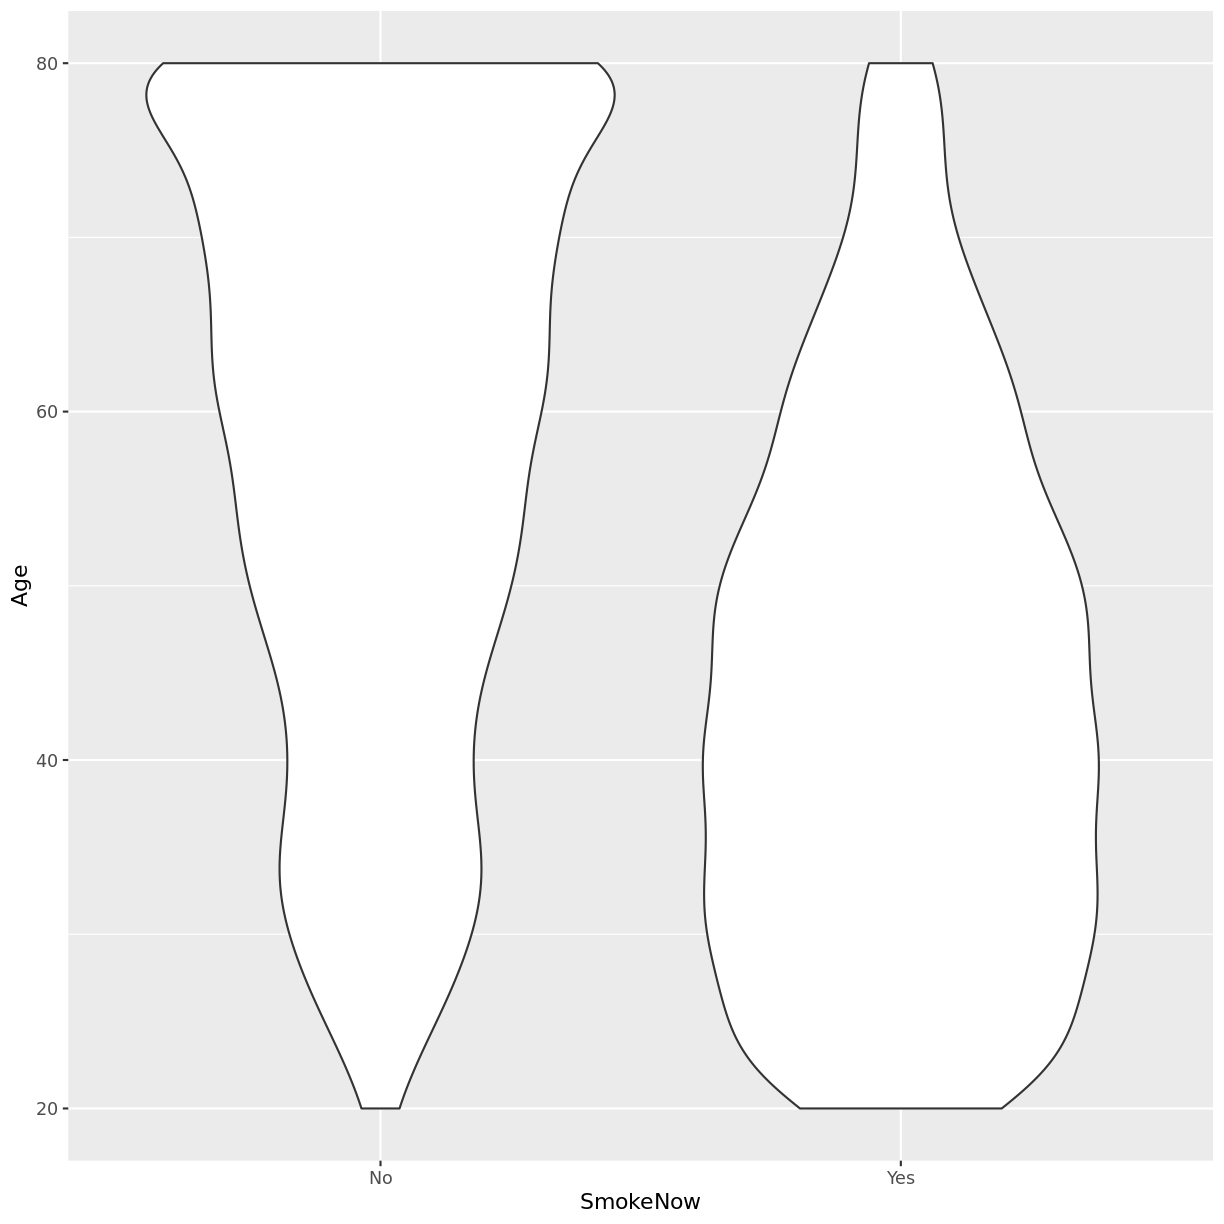
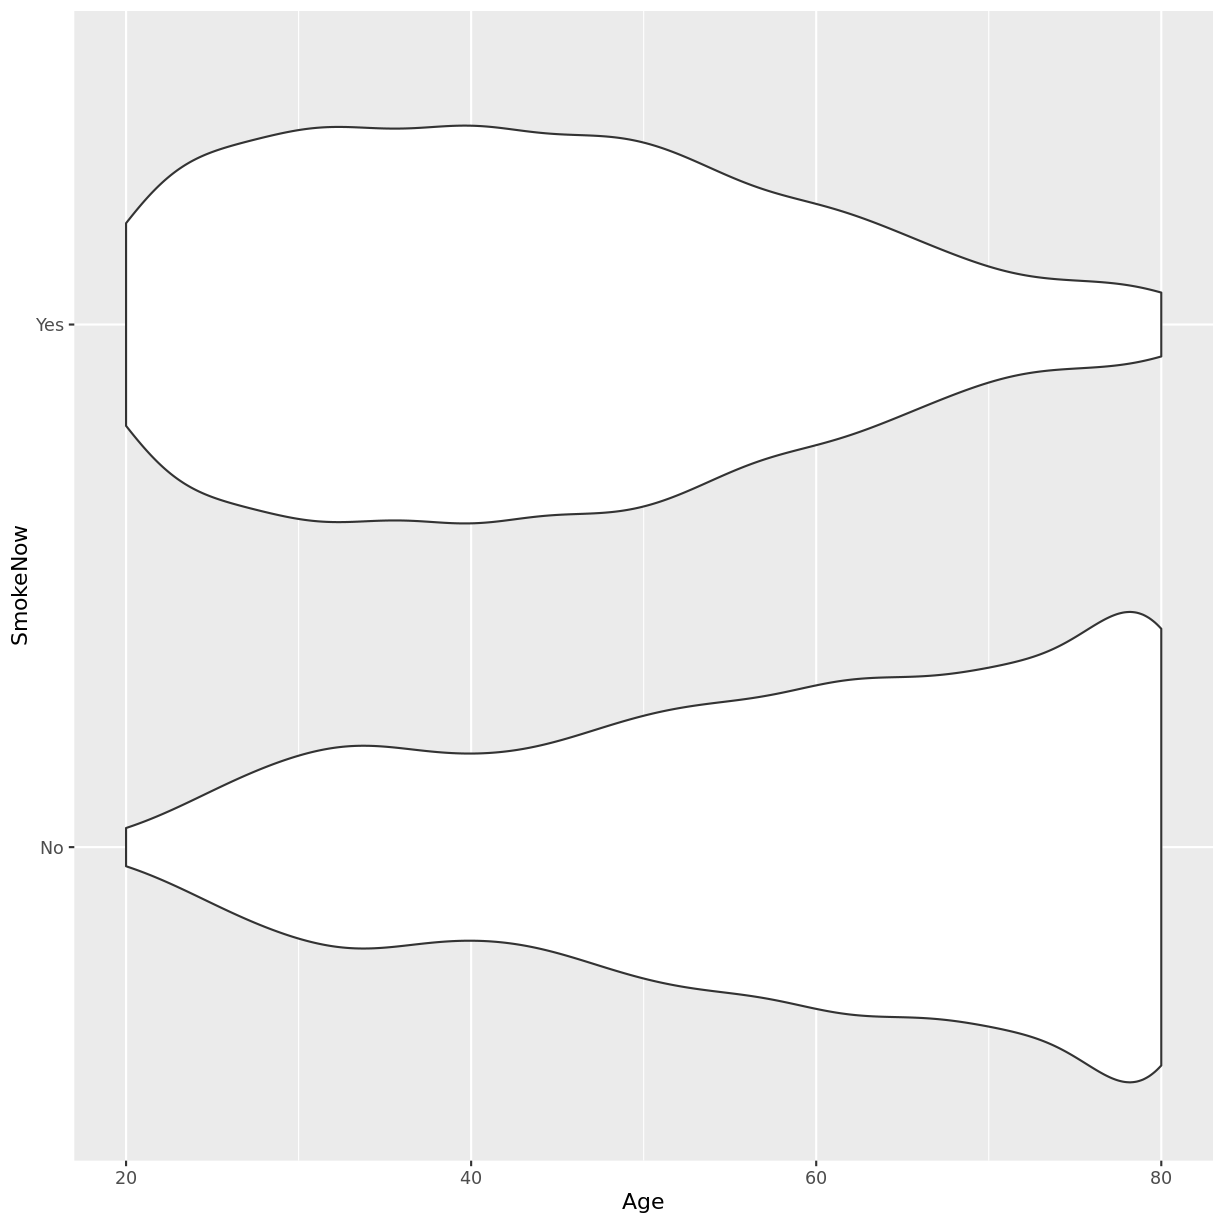
init main text

diff --git a/_episodes/03-fittingLogistic.md b/_episodes/03-fittingLogistic.md
@@ -17,11 +17,17 @@ execises: 10
 
 
 
+In this episode we will learn to fit a logistic regression model when we have one binary response variable and one continuous explanatory variable. Before we fit the model, we can explore the relationship between our variables graphically. We are checking whether, on average, observations split along the binary variable appear to differ in the explanatory variable.
+
+Let us take response variable `SmokeNow` and the continuous explanatory variable `Age`as an example. For participants that have smoked at least 100 cigarettes in their life, `SmokeNow` denotes whether they still smoke. The code below drops NAs in the response variable. The plotting is then initiated using `ggplot()`. Inside `aes()`, we select the response variable with `y = SmokeNow` and the continuous explanatory variable with `x = Age`. Finally, violin plots are called using `geom_violin()`.
+
+The plot suggests that on average, participants of younger age are still smoking and participants of older age have given up smoking. We can now proceed with fitting the logistic regression model. 
+
 
 ~~~
 dat %>%
   drop_na(SmokeNow) %>%
-  ggplot(aes(x = SmokeNow, y = Age)) +
+  ggplot(aes(y = SmokeNow, x = Age)) +
   geom_violin() 
 ~~~
 {: .language-r}
@@ -31,7 +37,7 @@ dat %>%
 > ## Exercise  
 > You have been asked to model the relationship between 
 > physical activity (`PhysActive`)
-> and `FEV1` in the NHANES data. Use the ggplot2
+> and `FEV1` in the NHANES data. Use the `ggplot2`
 > package to create an exploratory plot, ensuring that:
 > 1. NAs are discarded from the `PhysActive` variable.  
 > 2. Physical activity (`PhysActive`) on the y-axis and FEV1 
@@ -55,45 +61,13 @@ dat %>%
 > {: .solution}
 {: .challenge}
 
+We fit the model using `glm()`. As with the `lm()` command, we specify our response and explanatory variables with `formula = SmokeNow ~ Age`. In addition, we specify `family = "binomial"` so that a logistic regression model is fit by `glm()`.  
 
 
 ~~~
 SmokeNow_Age <- dat %>%
   glm(formula = SmokeNow ~ Age, family = "binomial")
 
-summ(SmokeNow_Age)
-~~~
-{: .language-r}
-
-
-
-~~~
-MODEL INFO:
-Observations: 3007 (6993 missing obs. deleted)
-Dependent Variable: SmokeNow
-Type: Generalized linear model
-  Family: binomial 
-  Link function: logit 
-
-MODEL FIT:
-χ²(1) = 574.29, p = 0.00
-Pseudo-R² (Cragg-Uhler) = 0.23
-Pseudo-R² (McFadden) = 0.14
-AIC = 3575.26, BIC = 3587.28 
-
-Standard errors: MLE
-------------------------------------------------
-                     Est.   S.E.   z val.      p
------------------ ------- ------ -------- ------
-(Intercept)          2.61   0.13    19.68   0.00
-Age                 -0.05   0.00   -21.77   0.00
-------------------------------------------------
-~~~
-{: .output}
-
-
-
-~~~
 summ(SmokeNow_Age, exp = TRUE)
 ~~~
 {: .language-r}
@@ -123,6 +97,56 @@ Age                      0.95    0.94    0.95   -21.77   0.00
 -------------------------------------------------------------
 ~~~
 {: .output}
+
+The logistic regression model equation associated with this model has the general form:
+
+$$\text{logit}(E(y)) = \beta_0 + \beta_1 \times x_1.$$
+
+Recall that $\beta_0$ estimates the log odds when $x_1 = 0$ and $\beta_1$ estimates the difference in the log odds associated with a one-unit difference in $x_1$. Using `summ()`, we can obtain estimates for $\beta_0$ and $\beta_1$:
+
+
+~~~
+summ(SmokeNow_Age, digits = 3)
+~~~
+{: .language-r}
+
+
+
+~~~
+MODEL INFO:
+Observations: 3007 (6993 missing obs. deleted)
+Dependent Variable: SmokeNow
+Type: Generalized linear model
+  Family: binomial 
+  Link function: logit 
+
+MODEL FIT:
+χ²(1) = 574.291, p = 0.000
+Pseudo-R² (Cragg-Uhler) = 0.232
+Pseudo-R² (McFadden) = 0.139
+AIC = 3575.264, BIC = 3587.281 
+
+Standard errors: MLE
+----------------------------------------------------
+                      Est.    S.E.    z val.       p
+----------------- -------- ------- --------- -------
+(Intercept)          2.607   0.132    19.684   0.000
+Age                 -0.054   0.002   -21.771   0.000
+----------------------------------------------------
+~~~
+{: .output}
+
+The equation therefore becomes:
+
+$$\text{logit}(E(\text{PhysActive})) = 2.607 - 0.054 \times \text{Age}.$$
+
+Alternatively, we can express the model equation in terms of the probability of "success": 
+
+$$\text{Pr}(y = 1) = \text{logit}^{-1}(\beta_0 + \beta_1 \times x_1).$$
+
+In this example, $SmokeNow = Yes$ is "success". The equation therefore becomes:
+
+$$\text{Pr}(\text{SmokeNow} = \text{Yes}) = \text{logit}^{-1}(2.607 - 0.054 \times \text{Age}).$$
 
 > ## Exercise  
 > 1. Using the `glm()` command, fit a logistic regression model
